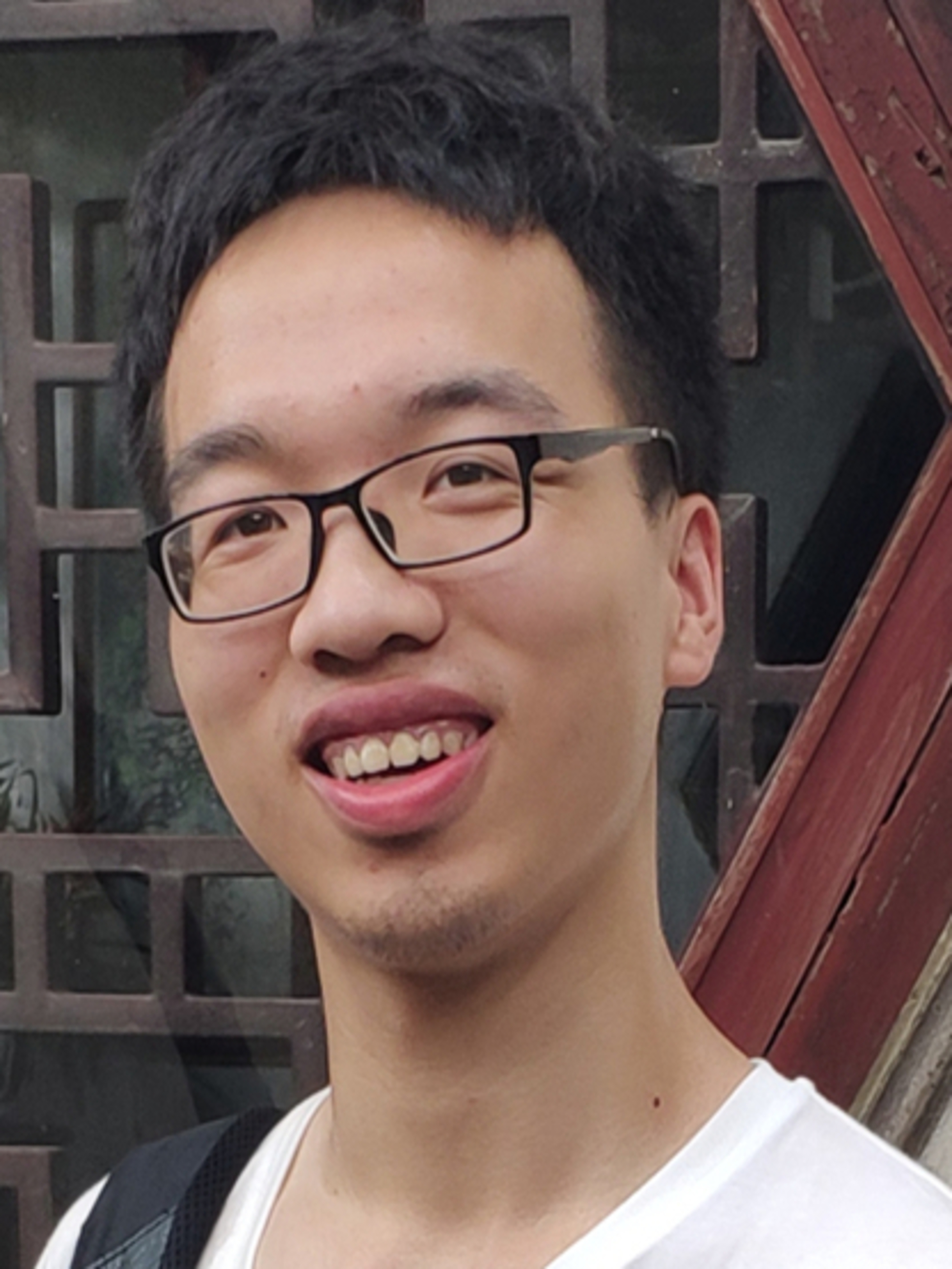
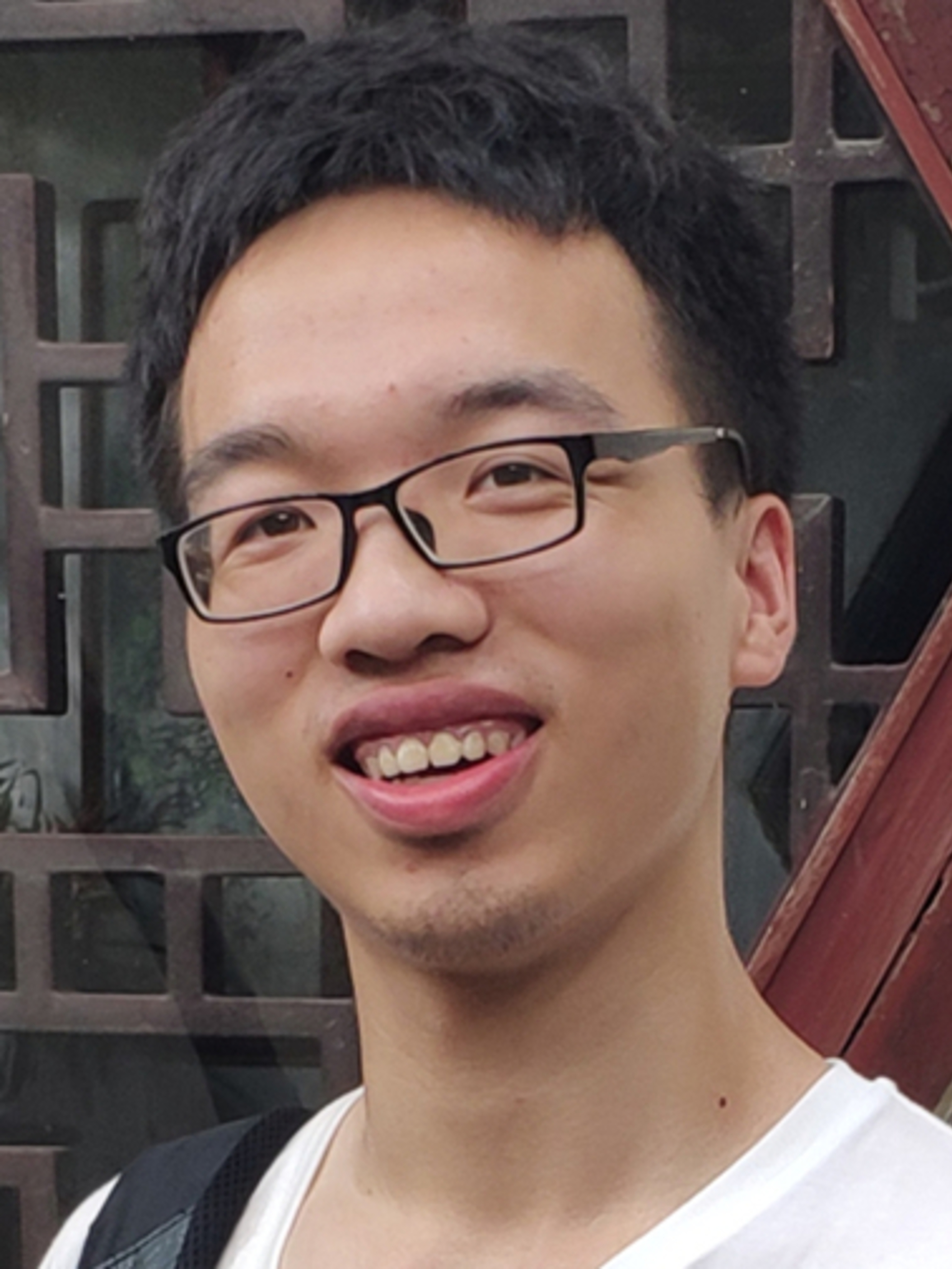
update photos

diff --git a/README.md b/README.md
@@ -35,3 +35,10 @@ _post: our research section
 _include/css/main.css: css global file
 
 More guide to be added.
+
+## Image processing 
+
+resize and crop
+```
+mogrify -resize "2108x2811^" -gravity Center -crop 2108x2811 *.jpg
+```
